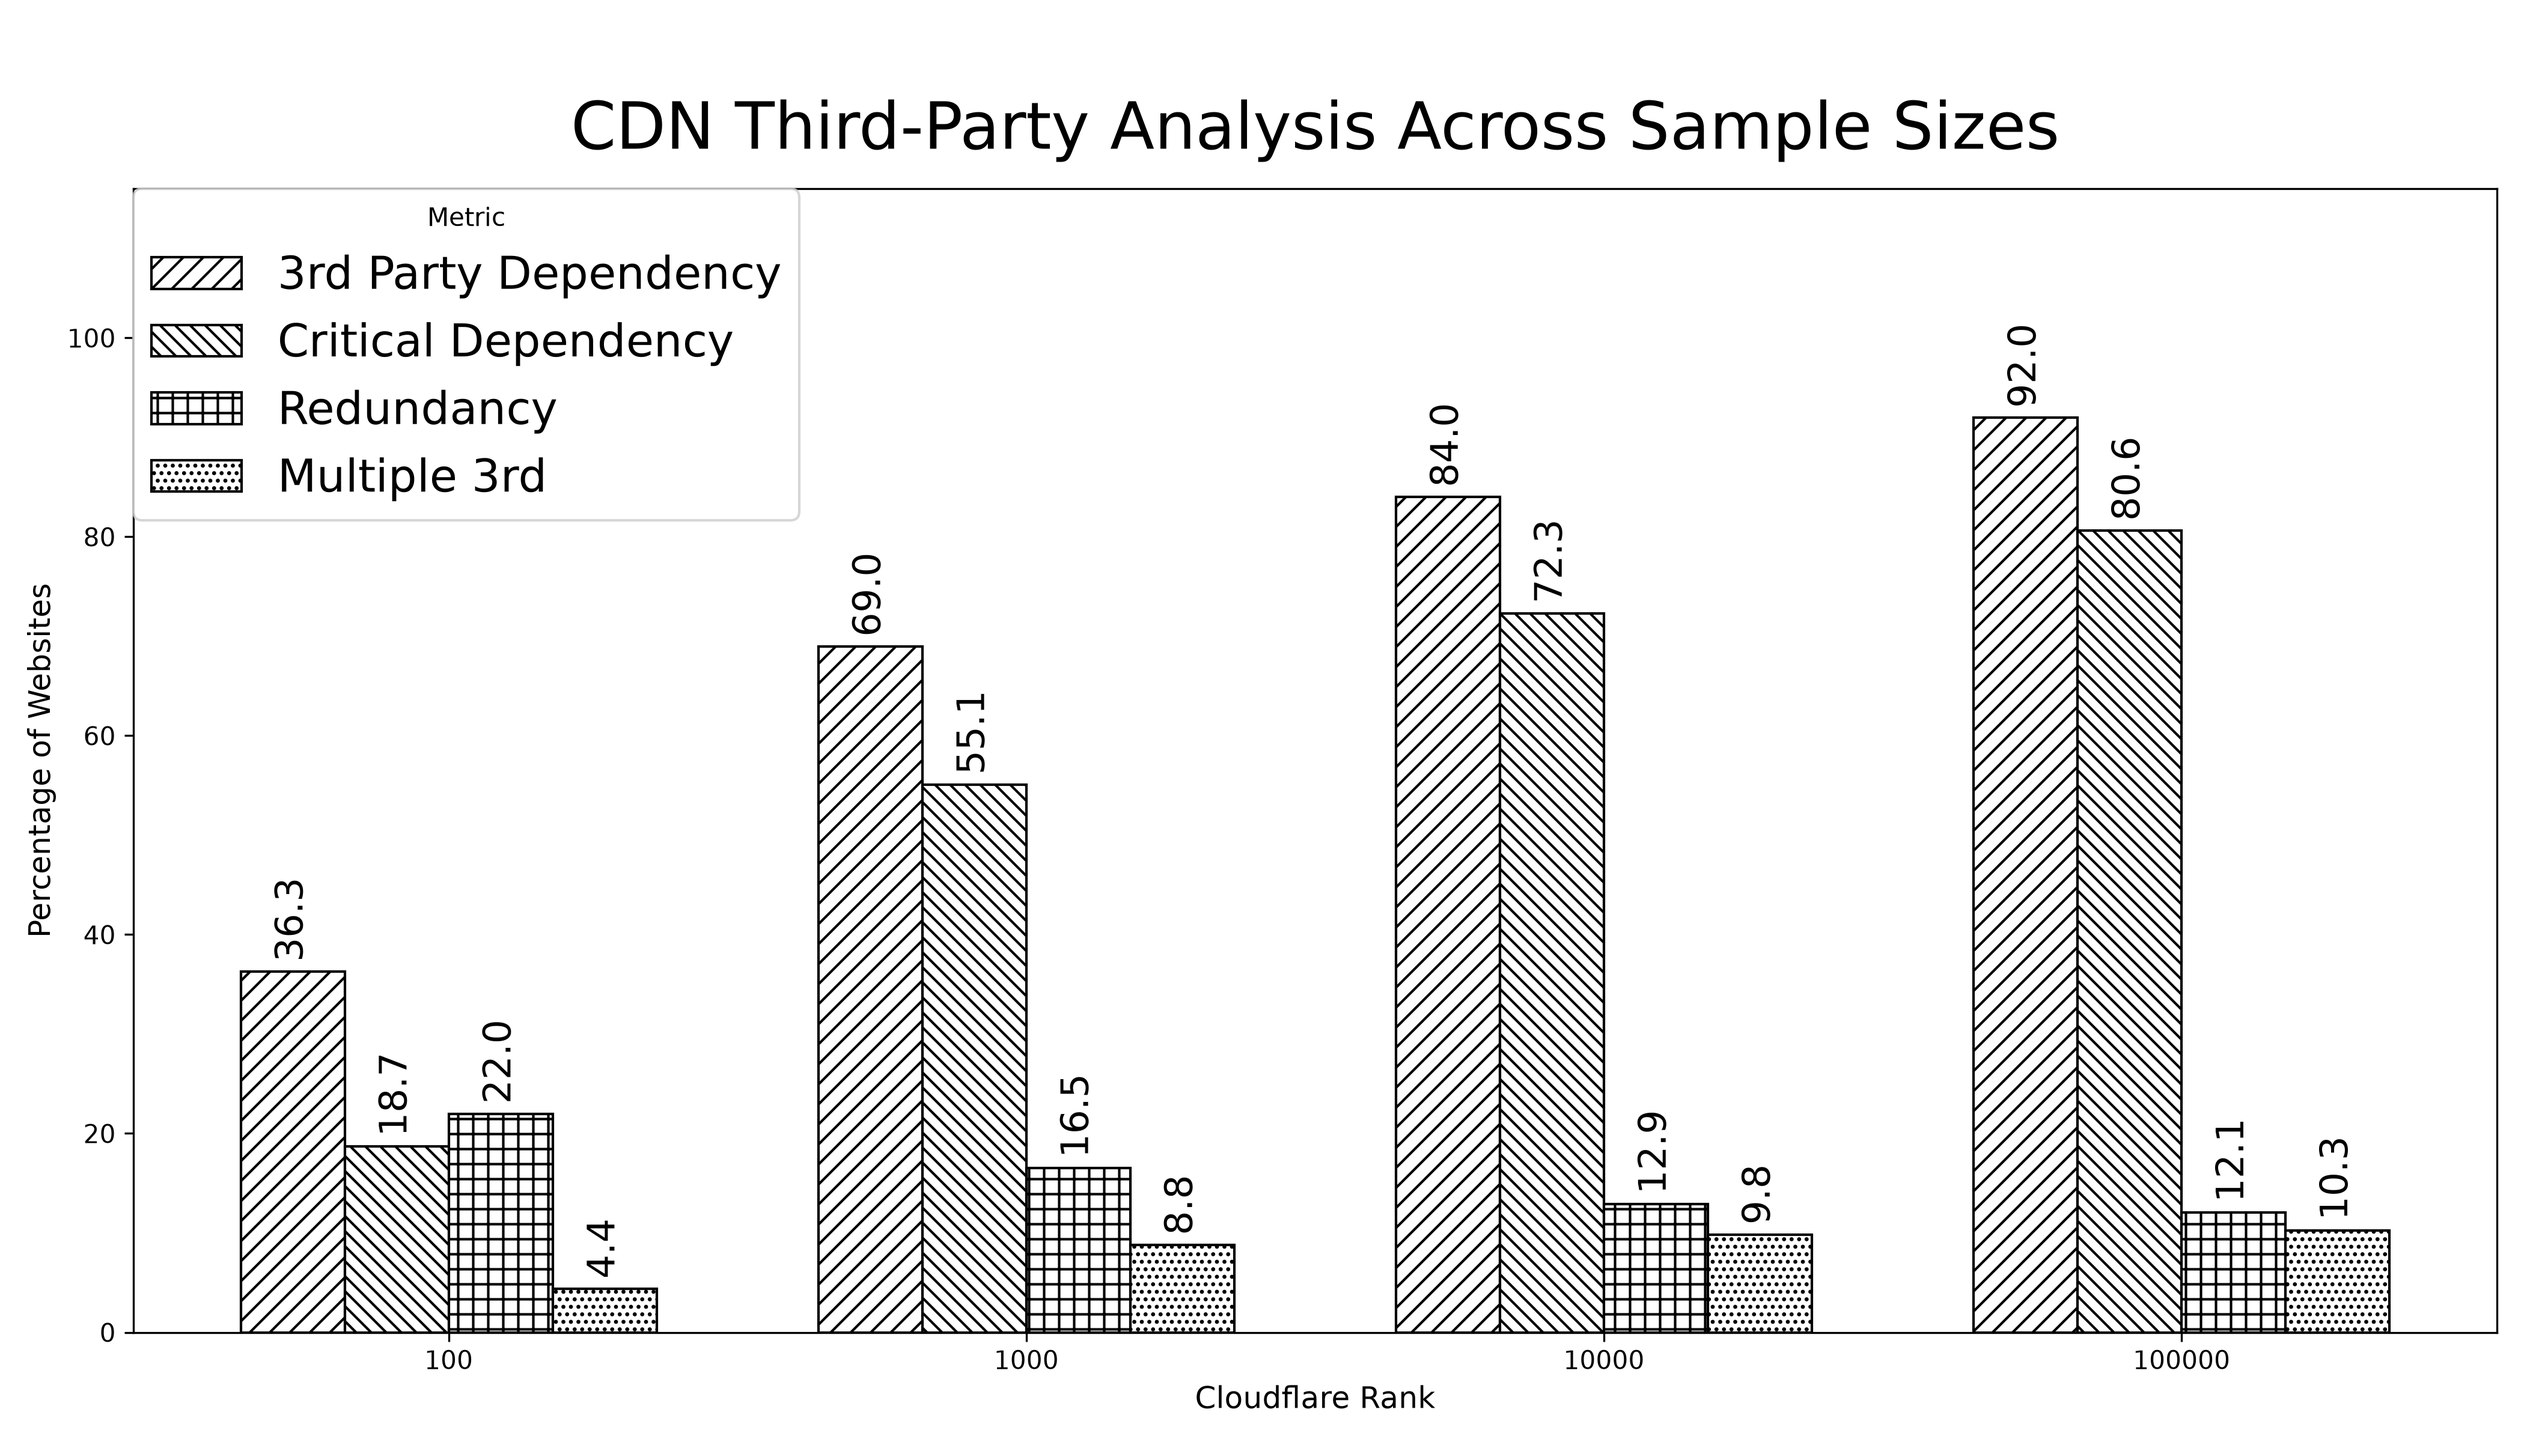
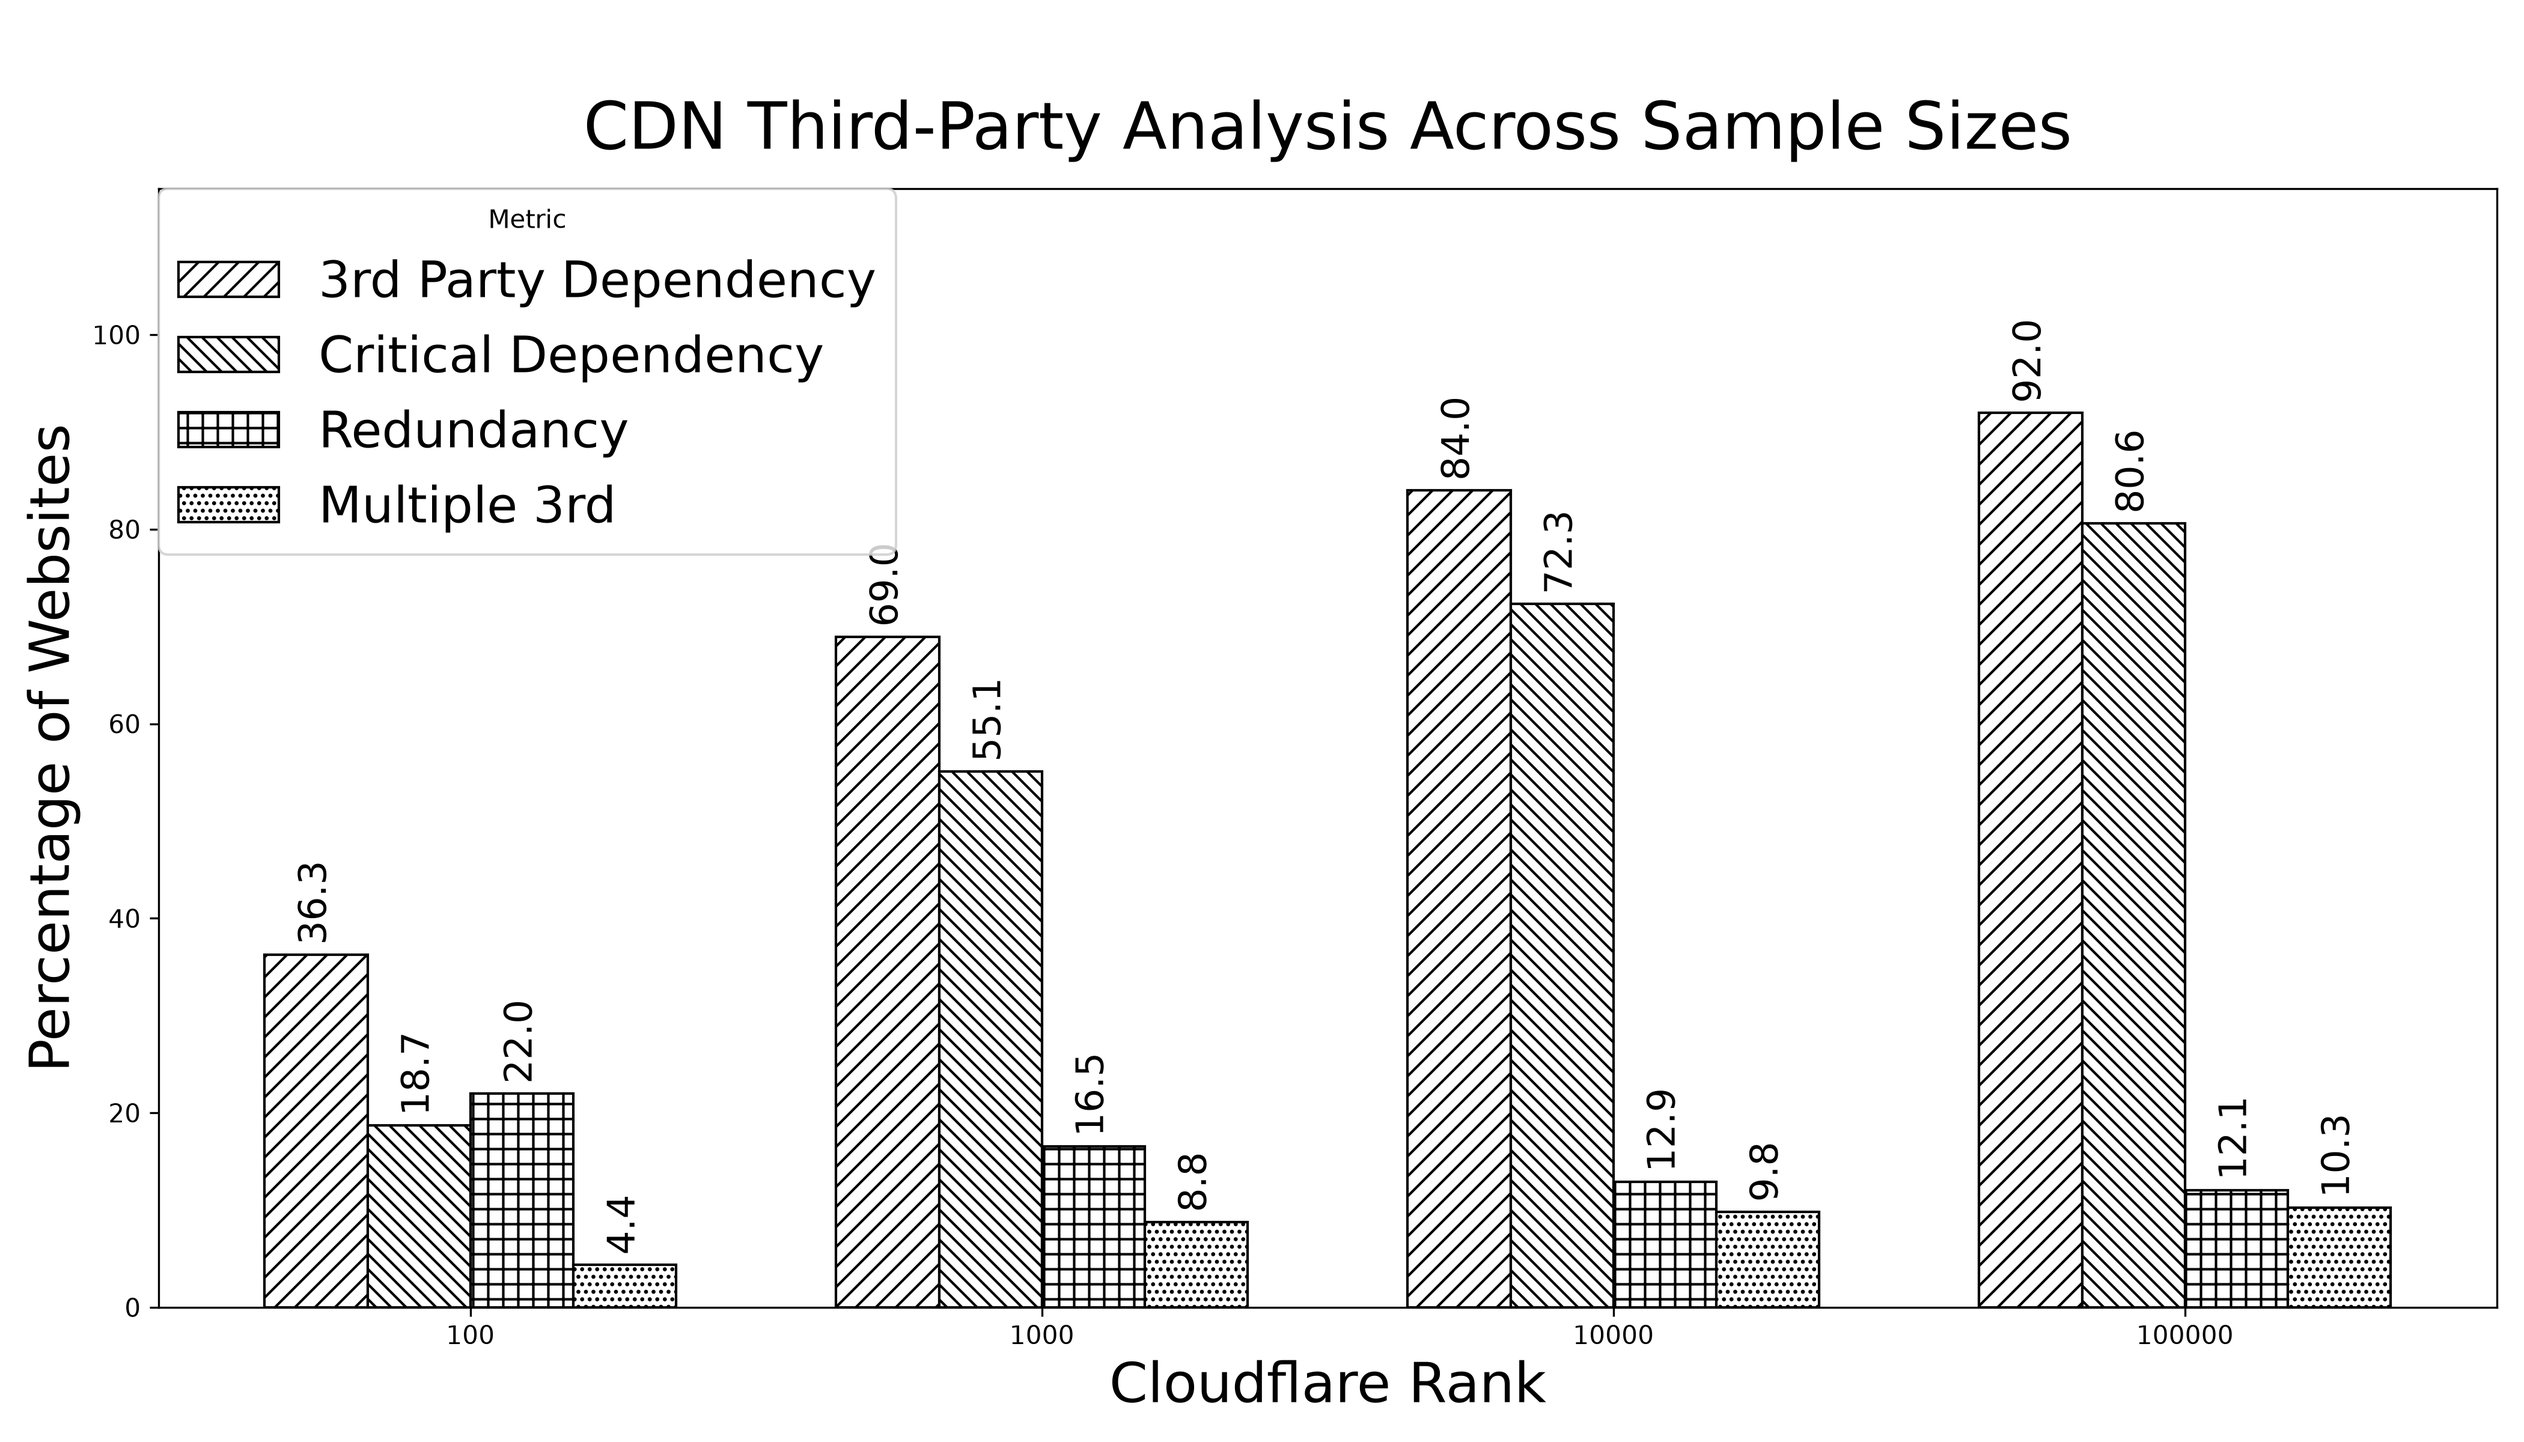
mhv

diff --git a/src/CDN_Identifier.py b/src/CDN_Identifier.py
@@ -1189,8 +1189,8 @@ def four_bar_cdn():
     ax.set_xticks(x)
     ax.set_title("CDN Third-Party Analysis Across Sample Sizes", fontsize = 26, pad = 16)
     ax.set_xticklabels(ranks)
-    ax.set_xlabel("Cloudflare Rank", fontsize=12)
-    ax.set_ylabel("Percentage of Websites", fontsize=12)
+    ax.set_xlabel("Cloudflare Rank", fontsize=22)
+    ax.set_ylabel("Percentage of Websites", fontsize=22)
     ax.set_ylim(0, 115)
 
     ax.legend(
@@ -1198,7 +1198,7 @@ def four_bar_cdn():
                 loc = "upper left",
                 bbox_to_anchor = (0, 1),
                 ncol = 1,          
-                fontsize = 18,
+                fontsize = 20,
                 borderaxespad = 0
             )
 

diff --git a/src/DNS_ThirdParty_Analysis/DNS_Data_Analysis.py b/src/DNS_ThirdParty_Analysis/DNS_Data_Analysis.py
@@ -365,15 +365,15 @@ def plot_dependency_breakdown(df: pd.DataFrame):
 
 def main():
     # Cross-file summary (100 / 1k / 10k / 100k) -- one consistent set of computed metrics
-    plot_summary_comparison(FILES)
+    #plot_summary_comparison(FILES)
 
 
     # Detailed charts on a single sample (change the key below to switch files)
-    #df = load_data(FILES["100,000 Domains"])
+    df = load_data(FILES["100,000 Domains"])
     #plot_type_pie(df)
     #plot_top_providers(df, top_n=5)
     #plot_provider_bubble(df)
-    #plot_dependency_breakdown(df)
+    plot_dependency_breakdown(df)
 
 
 if __name__ == "__main__":

diff --git a/src/DNS_ThirdParty_Analysis/DNS_IP_Analysis.py b/src/DNS_ThirdParty_Analysis/DNS_IP_Analysis.py
@@ -100,7 +100,7 @@ LABEL_MAP = {
 }
 display_labels = [LABEL_MAP.get(label, label) for label in top.index]
 
-colors = ['#008000', '#1baf7a']
+colors = ['///', '+++++']
 
 fig, ax = plt.subplots(figsize=(14, 12))
 
